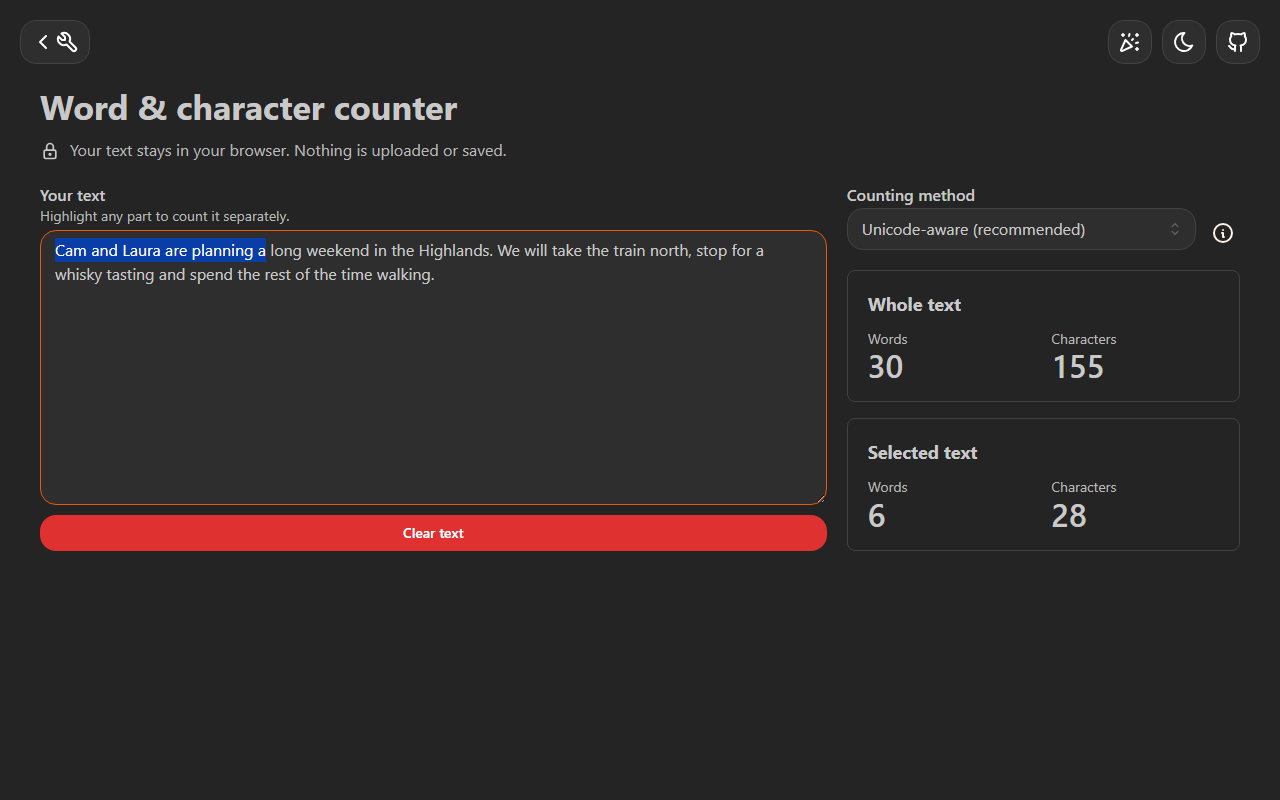
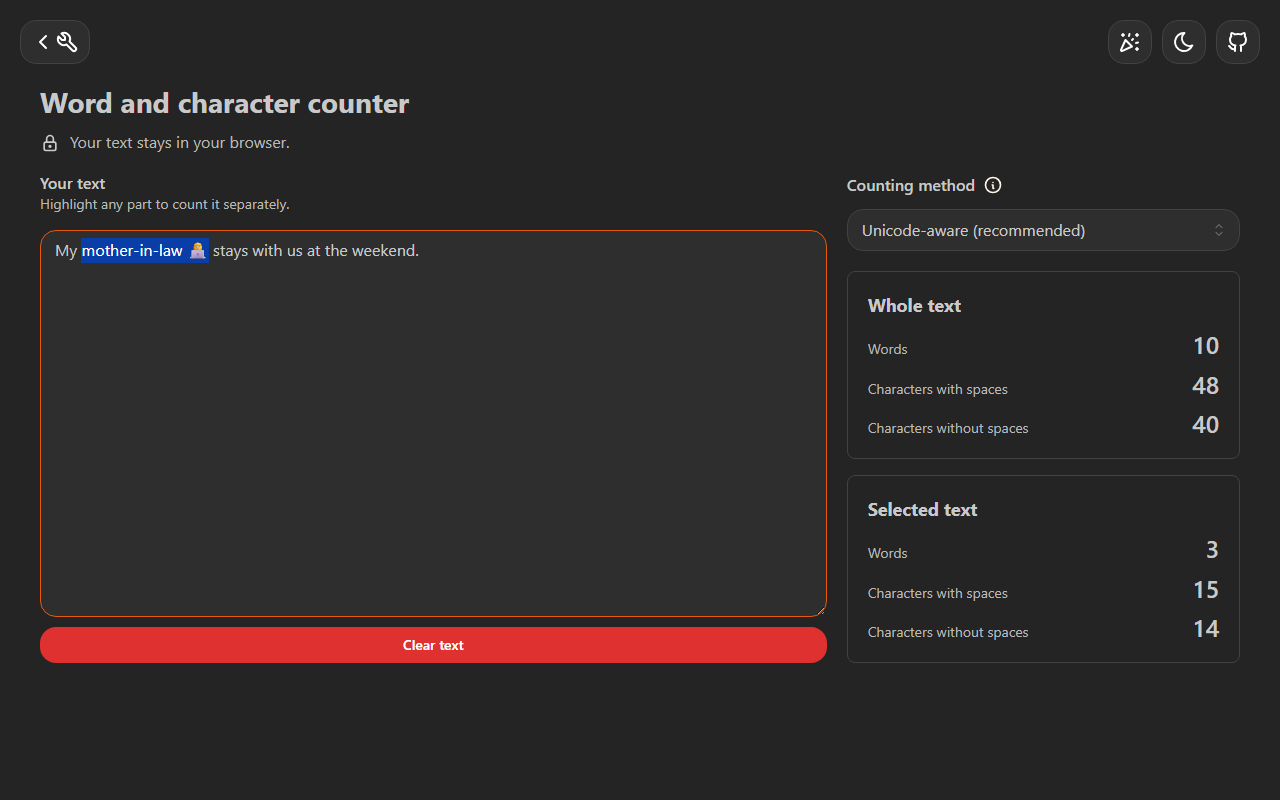
Update PR 247 screenshots for the counts with and without spaces and the compact phone layout

diff --git a/247/README.md b/247/README.md
@@ -5,4 +5,4 @@ Full-page screenshots of Unicode-aware counting with the same text and highlight
 - `word-counter-desktop-dark.png`: desktop Chrome in dark mode.
 - `word-counter-mobile-light.png`: iPhone 17 Safari in light mode.
 
-The highlighted passage is `mother-in-law 👩💻`. Its three words and 15 visible characters appear alongside the whole-text counts.
+The highlighted passage is `mother-in-law 👩💻`. Its 3 words, 15 characters with spaces and 14 without appear alongside the whole-text counts.
